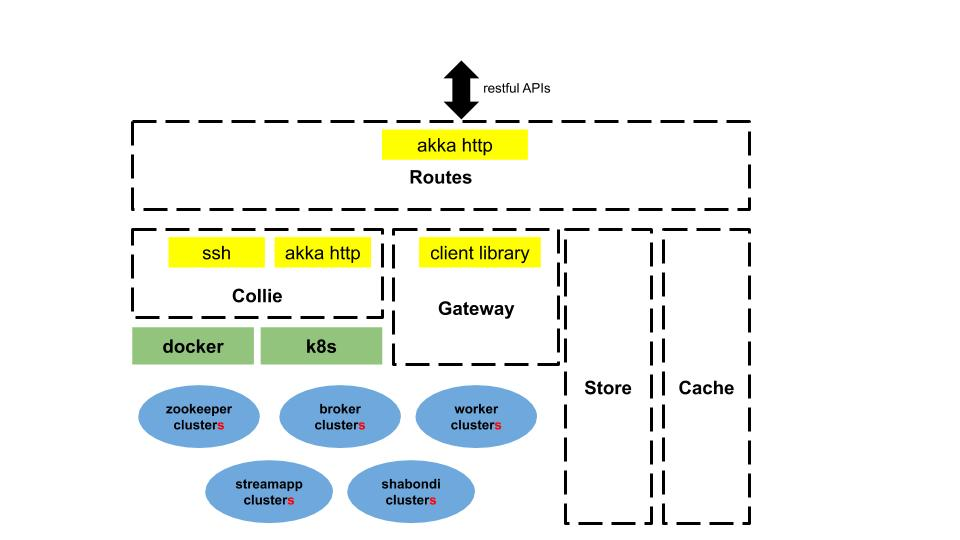
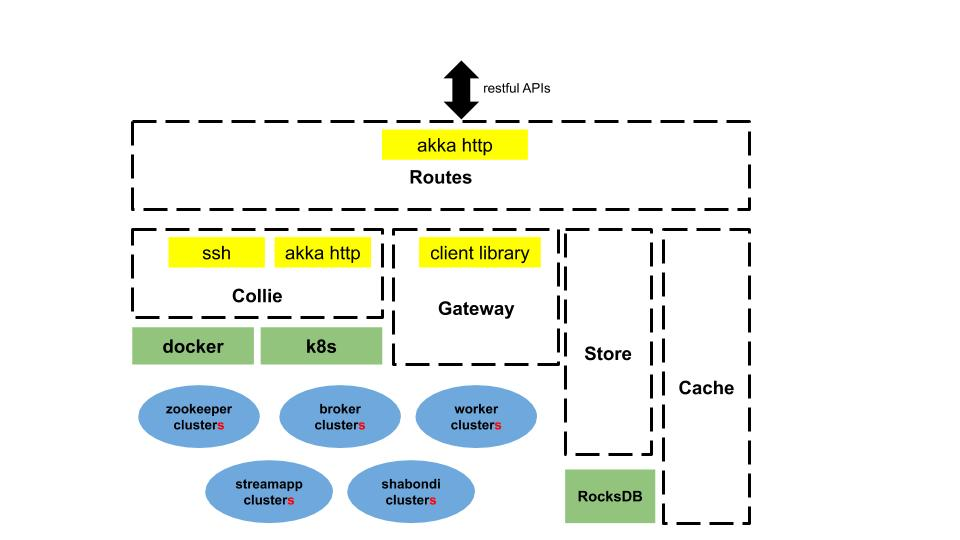
#185 [docs] usage of RocksDB (#1207)

Changed region(s): [[0.5625, 0.8296, 0.6875, 0.9778], [0.5938, 0.6222, 0.6562, 0.6815], [0.5938, 0.7111, 0.6562, 0.7407]]

diff --git a/docs/user_guide.md b/docs/user_guide.md
@@ -117,6 +117,28 @@ through configruator's RESTful APIs.
 
 ----------
 
+#### Keep the data of Configurator
+
+Ohara Configurator demand a folder to store [data](rest_interface.md) and [jars](rest_interface.md#jars). As Ohara
+Configurator is running in docker container, you have to mount the volume, which is located on container host, on the
+home folder of Ohara Configurator if you want to keep all data of Ohara Configurator. The following example is to mount
+a local folder (/tmp/configurator) on /home/ohara/configurator of Ohara Configurator's container.
+
+```bash
+$ mkdir /tmp/configurator
+$ docker run -v /tmp/configurator:/home/ohara/configurator \
+         -p 12345:12345 \
+         oharastream/configurator:0.5-SNAPSHOT \
+         --port 12345 \
+         --folder /home/ohara/configurator
+```
+
+The user account in docker container is **ohara**, and hence it would be better to set the folder under the **/home/ohara**.
+Otherwise, you will encounter the permission error. Noted that you have tell Ohara Configurator to save data in the folder
+referencing to the outside folder. Otherwise, Ohara Configurator flush all data to a random folder. 
+
+----------
+
 ### Execute Manager
 
 ```sh
@@ -186,10 +208,9 @@ all services requires small bandwidth only. We don't need to care for the perfor
 ### Store of Ohara Configurator
 
 All settings you request to Ohara Configurator are saved in Store, such as connector settings, cluster information and
-pipeline description. The default implementation of Store is in-memory store which is implemented by java concurrent
-hash map. The index of data is id stored by hash code so most GET requests to Ohara Configurator is cheap and fast. A
-todo task, unfortunately, is that the in-memory store is not permanent so your Ohara Configurator instance will lose all
-data after restarting, and this issue is traced by [here](https://github.com/oharastream/ohara/issues/185).
+pipeline description. The default implementation of Store is [RocksDB](https://rocksdb.org/) which offers fast in-memory
+access and persists all data on disk. Please read this [section](#keep-the-data-of-configurator) about mounting host's
+folder on docker container.
 
 ----------
 
